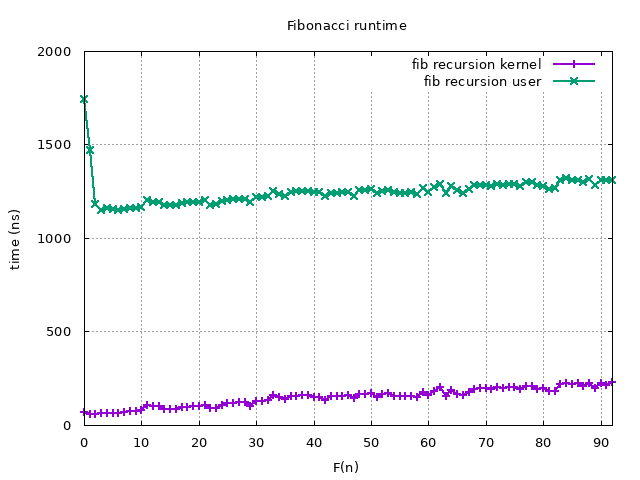
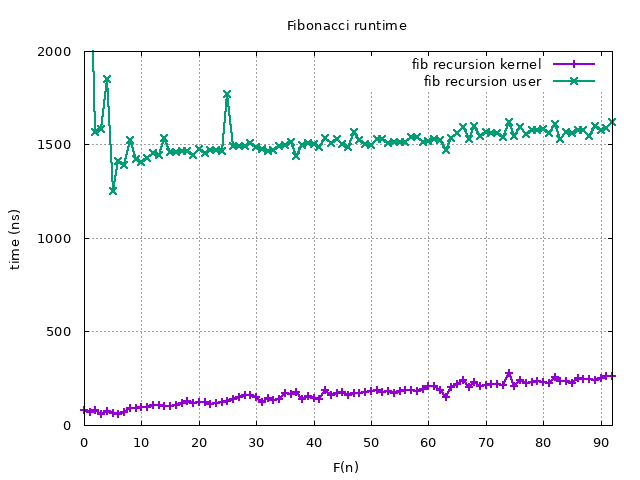
Implement fast doubling
Add fib_fast_doubling in fibdrv.c.

Use faster algorithm "fast doubling" and compare rinning time between
"fast doubling" and "interative".

Changed region(s): [[0.125, 0.1562, 0.9688, 0.4688], [0.125, 0.7812, 0.9688, 0.875], [0.125, 0.125, 0.1562, 0.1562]]

diff --git a/fibdrv.c b/fibdrv.c
@@ -24,7 +24,7 @@ static struct cdev *fib_cdev;
 static struct class *fib_class;
 static DEFINE_MUTEX(fib_mutex);
 
-static long long fib_sequence(long long k)
+static long long fib_iterative(long long k)
 {
     if (k < 2)
         return k;
@@ -38,6 +38,34 @@ static long long fib_sequence(long long k)
     }
 
     return f[2];
+}
+
+static long long fib_fast_doubling(long long k)
+{
+    long long h = 0;
+    for (long long i = k; i; ++h, i >>= 1)
+        ;
+
+    long long a = 0;
+    long long b = 1;
+    for (unsigned int mask = 1 << (h - 1); mask; mask >>= 1) {
+        long long c = a * (2 * b - a);
+        long long d = a * a + b * b;
+
+        if (mask & k) {
+            a = d;
+            b = c + d;
+        } else {
+            a = c;
+            b = d;
+        }
+    }
+    return a;
+}
+
+static long long fib_sequence(long long k)
+{
+    return fib_fast_doubling(k);
 }
 
 static int fib_open(struct inode *inode, struct file *file)
@@ -72,7 +100,6 @@ static ssize_t fib_read(struct file *file,
                         size_t size,
                         loff_t *offset)
 {
-    // return (ssize_t) fib_sequence(*offset);
     return (ssize_t) fib_time_proxy(*offset);
 }
 
@@ -82,10 +109,23 @@ static ssize_t fib_write(struct file *file,
                          size_t size,
                          loff_t *offset)
 {
-    if (size)
+    switch (size) {
+    case 0:
+        break;
+    case 1:
+        kt = ktime_get();
+        fib_iterative(*offset);
+        kt = ktime_sub(ktime_get(), kt);
+        break;
+    case 2:
+        kt = ktime_get();
+        fib_fast_doubling(*offset);
+        kt = ktime_sub(ktime_get(), kt);
+        break;
+    default:
         return 1;
-    else
-        return ktime_to_ns(kt);
+    }
+    return ktime_to_ns(kt);
 }
 
 static loff_t fib_device_lseek(struct file *file, loff_t offset, int orig)

diff --git a/client_plot.c b/client_plot.c
@@ -8,7 +8,7 @@
 
 #define FIB_DEV "/dev/fibonacci"
 
-int main()
+int main(int argc, char *argv[])
 {
     char buf[1];
     int offset = 100; /* TODO: try test something bigger than the limit */
@@ -18,19 +18,27 @@ int main()
         perror("Failed to open character device");
         exit(1);
     }
-
-    for (int i = 0; i <= offset; i++) {
-        lseek(fd, i, SEEK_SET);
-        struct timespec t1, t2;
-        clock_gettime(CLOCK_MONOTONIC, &t1);
-        read(fd, buf, 1);
-        clock_gettime(CLOCK_MONOTONIC, &t2);
-        long long user_time = (long long) (t2.tv_sec * 1e9 + t2.tv_nsec) -
-                              (t1.tv_sec * 1e9 + t1.tv_nsec);
-        long long sz = write(fd, buf, 0);
-        printf("%d %lld %lld\n", i, sz, user_time);
+    if (argv[1][0] == '0') {  // running time
+        for (int i = 0; i <= offset; i++) {
+            lseek(fd, i, SEEK_SET);
+            struct timespec t1, t2;
+            clock_gettime(CLOCK_MONOTONIC, &t1);
+            read(fd, buf, 1);
+            clock_gettime(CLOCK_MONOTONIC, &t2);
+            long long user_time = (long long) (t2.tv_sec * 1e9 + t2.tv_nsec) -
+                                  (t1.tv_sec * 1e9 + t1.tv_nsec);
+            long long sz = write(fd, buf, 0);
+            printf("%d %lld %lld\n", i, sz, user_time);
+        }
+    } else if (argv[1][0] == '1') {  // runnung time compare
+        for (int i = 0; i <= offset; i++) {
+            long long time_interative, time_fast_doubling;
+            lseek(fd, i, SEEK_SET);
+            time_interative = write(fd, buf, 1);
+            time_fast_doubling = write(fd, buf, 2);
+            printf("%d %lld %lld\n", i, time_interative, time_fast_doubling);
+        }
     }
-
     close(fd);
     return 0;
 }
